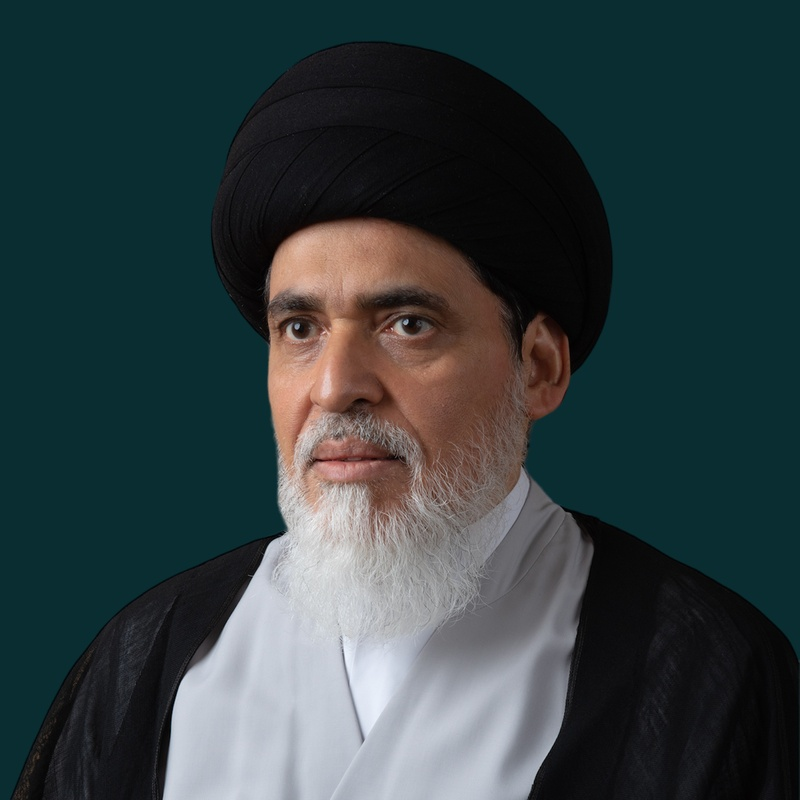
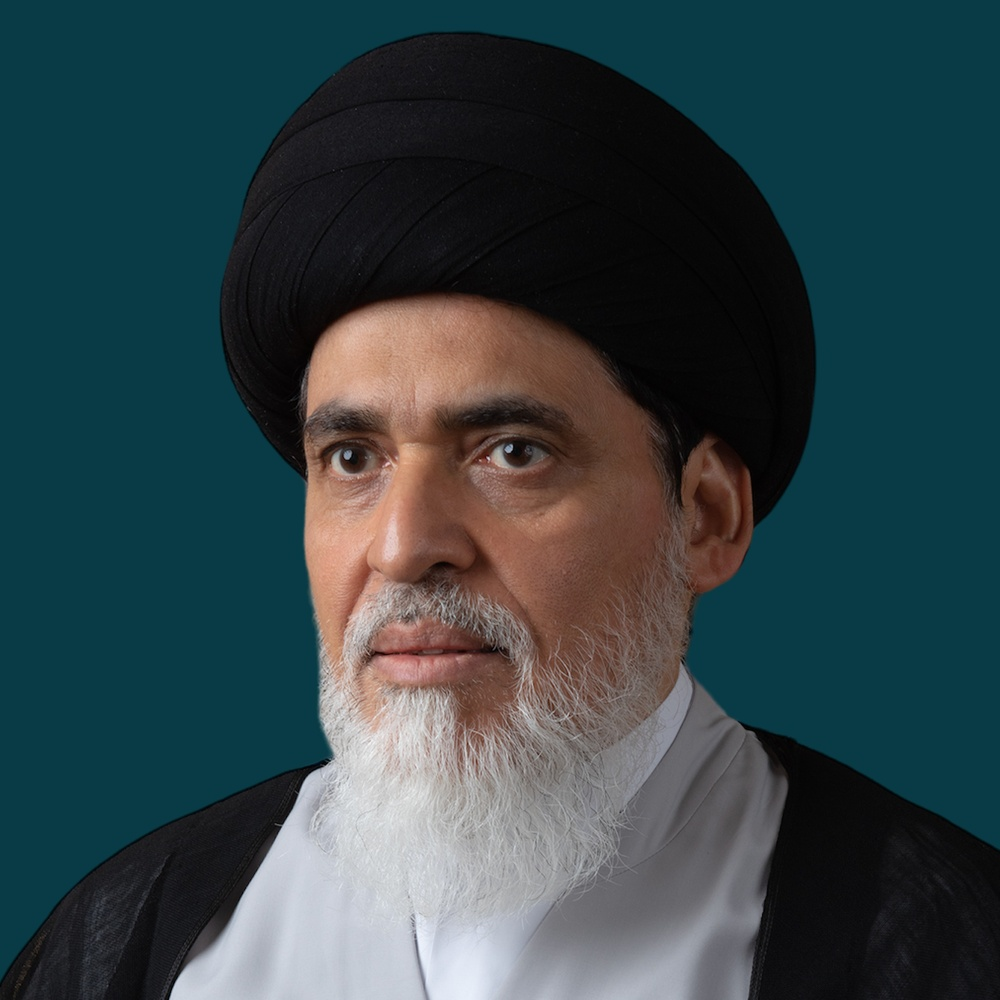
Zoom and enlarge portrait to perfectly fill circular hero frame

Changed region(s): [[0.0, 0.0312, 1.0, 1.0], [0.3438, 0.9062, 0.375, 1.0], [0.3125, 0.0938, 0.3438, 0.125]]

diff --git a/resources/views/home.blade.php b/resources/views/home.blade.php
@@ -57,7 +57,9 @@
                         <div class="relative mx-auto w-44 h-44 sm:w-52 sm:h-52">
                             <div class="absolute -inset-1.5 bg-gradient-to-tr from-gold-400 via-gold-500 to-emerald-500 rounded-full blur opacity-75 animate-pulse"></div>
                             <div class="relative w-full h-full rounded-full p-1.5 bg-gradient-to-tr from-gold-300 via-gold-500 to-emerald-800 shadow-2xl overflow-hidden border-2 border-gold-400">
-                                <img src="{{ asset('images/sayyid-muneer-portrait.jpg') }}" alt="سماحة العلامة السيد منير الخباز" class="w-full h-full object-cover hover:scale-105 transition-transform duration-500">
+                                <div class="w-full h-full rounded-full overflow-hidden bg-gradient-to-b from-[#083b45] to-[#041f25]">
+                                    <img src="{{ asset('images/sayyid-muneer-portrait.png') }}" alt="سماحة العلامة السيد منير الخباز" class="w-full h-full object-cover hover:scale-105 transition-transform duration-500">
+                                </div>
                             </div>
                         </div>
 
